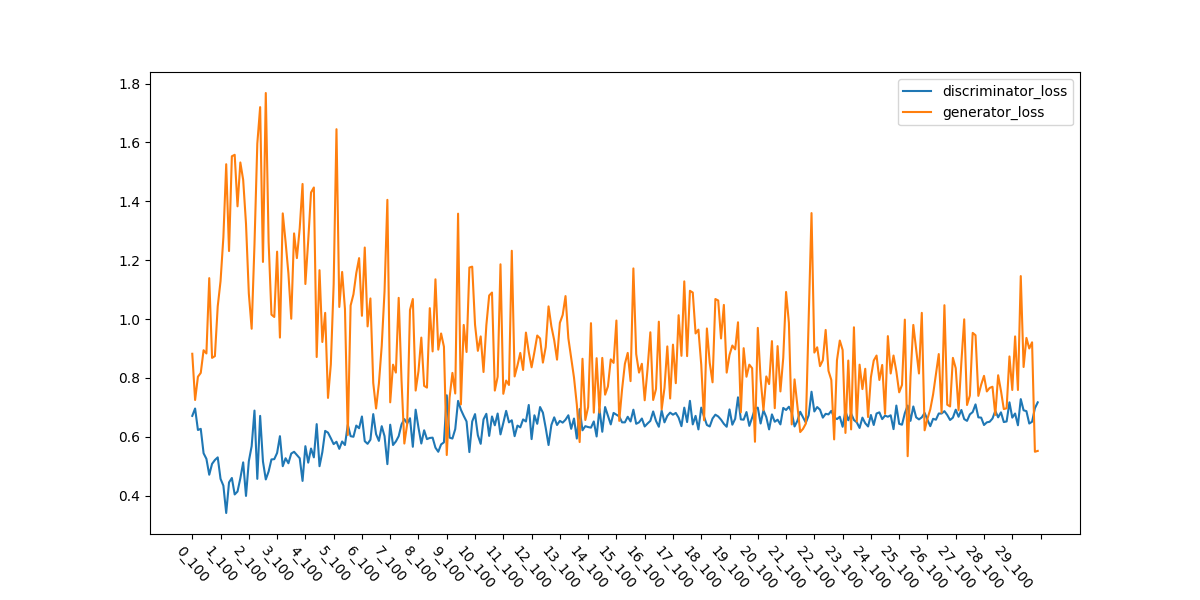
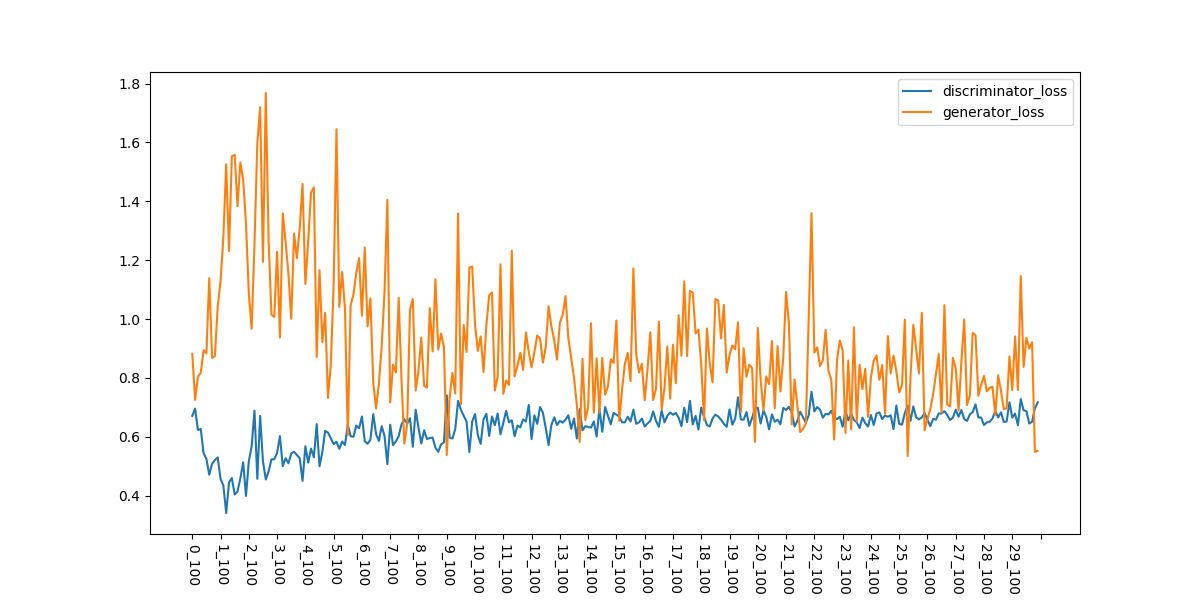
fix plot

Changed region(s): [[0.1542, 0.9, 0.8633, 0.99]]

diff --git a/plot.py b/plot.py
@@ -9,6 +9,6 @@ data['plot_x'] = data['epoch'].astype(str) + '_' + data['iteration'].astype(str)
 plt.figure(figsize=(12,6))
 plt.plot(data['plot_x'], data['discriminator_loss'], label='discriminator_loss')
 plt.plot(data['plot_x'], data['generator_loss'], label='generator_loss')
-plt.xticks(np.arange(0, len(data)+1, 10), rotation=-50)
+plt.xticks(np.arange(0, len(data)+1, 10), rotation=-90)
 plt.legend()
 plt.savefig('plot.png')
